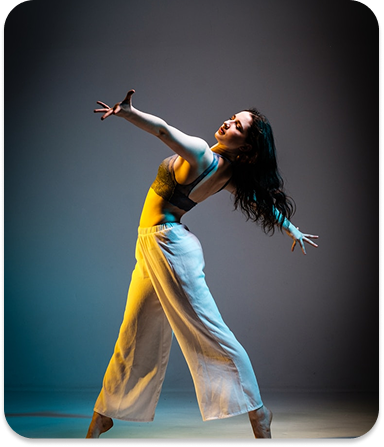
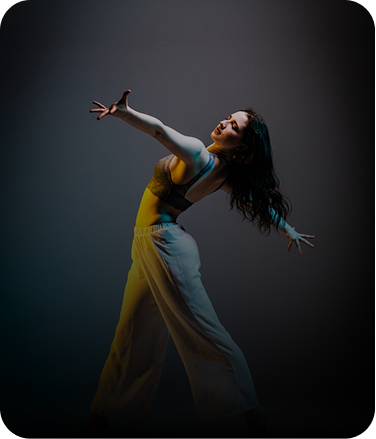
fix

diff --git a/pages/index.vue b/pages/index.vue
@@ -933,9 +933,9 @@ const goToPage = (page) => {
 
       .tab-img-dance {
         position: absolute;
-        width: 230px;
-        top: -30px;
-        right: -85px;
+        right: -113px;
+        top: -18px;
+        width: 220px;
       }
     }
   }

diff --git a/component/footer/footer.vue b/component/footer/footer.vue
@@ -55,7 +55,7 @@
 }
 
 .footer {
-  padding: 0 103px;
+  padding: 45px 103px 70px;
   margin-left: auto;
   margin-right: auto;
   max-width: 1920px;